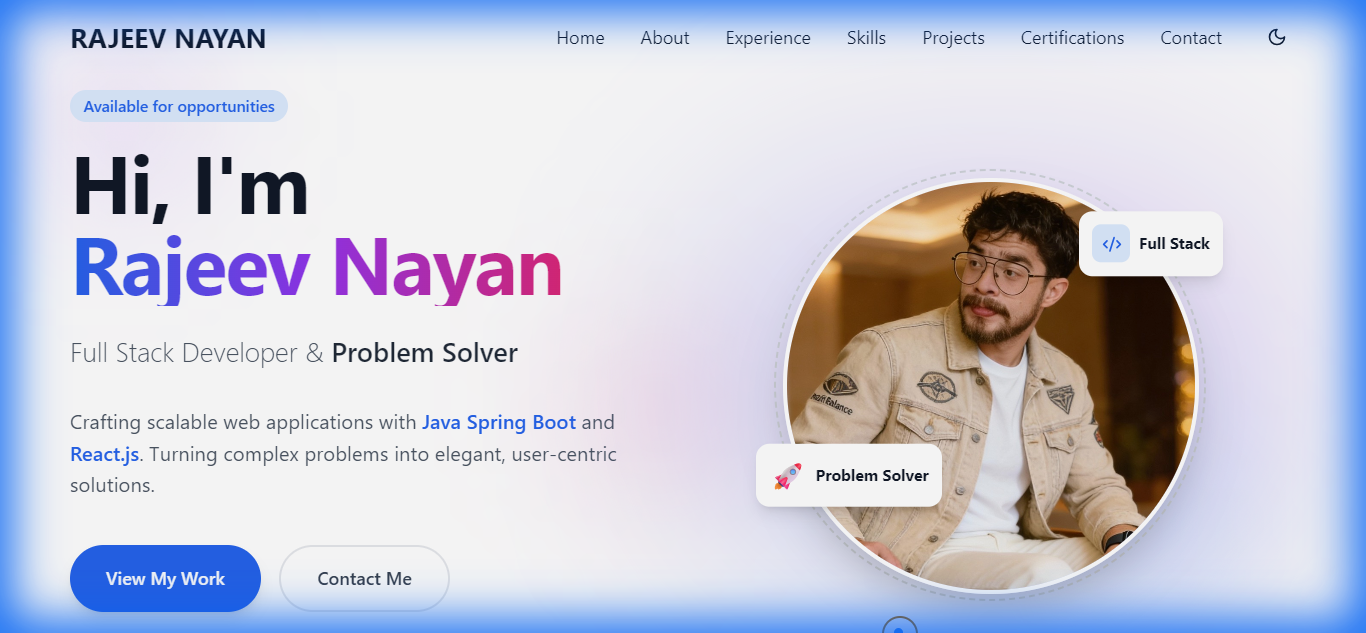
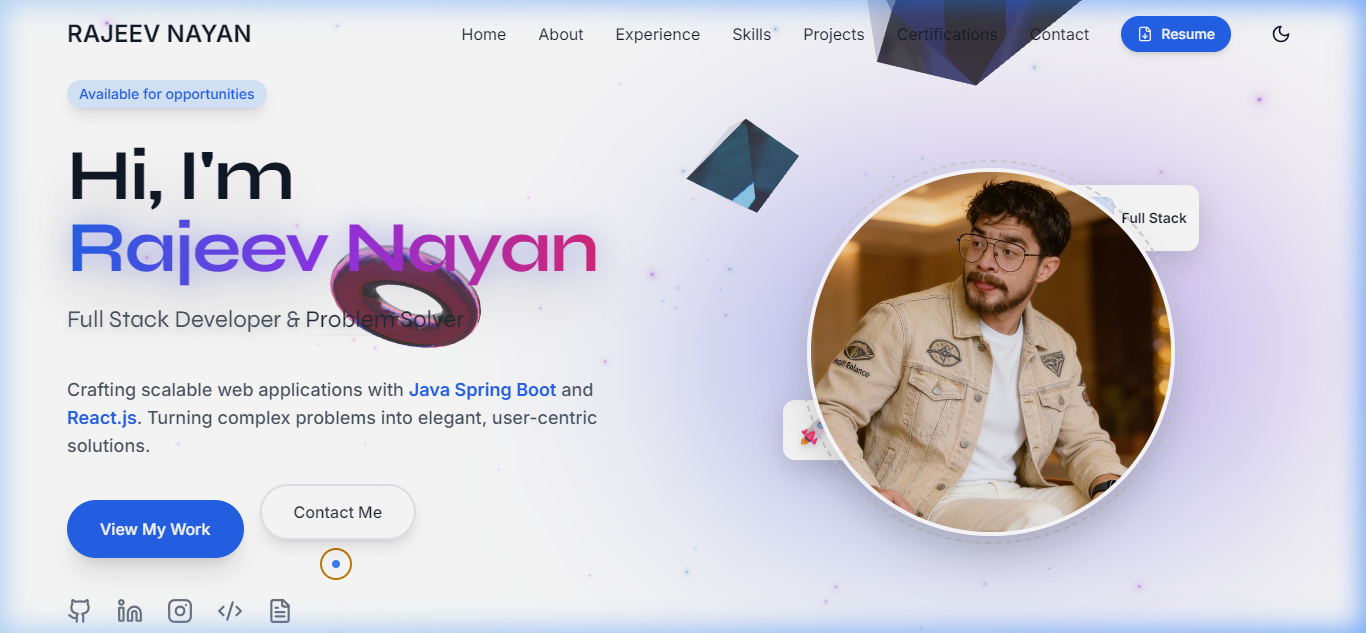
docs: significantly update README with 3D architecture details and new Hero screenshot preview

diff --git a/README.md b/README.md
@@ -28,9 +28,12 @@
 
 ## 🚀 Overview
 
-Welcome to my personal portfolio repository! This project is a representation of my skills, experience, and projects as a **Full Stack Developer**. It is built with a focus on **performance**, **responsiveness**, and **modern design principles**.
+Welcome to my personal portfolio repository! This project is a state-of-the-art representation of my skills, experience, and projects as a **Full Stack Developer**. It is built with an extreme focus on **performance**, **responsiveness**, and delivering a **jaw-dropping 3D user experience**.
 
-The portfolio features a clean UI, dark mode support, smooth animations, and a modular architecture that makes it easy to maintain and scale.
+### 🌟 Recent Architecture Upgrades (3D Experiences)
+- **High Performance 3D rendering:** Implemented via *React Three Fiber (WebGL)* and hardware-accelerated CSS 3D transforms with *Framer Motion*.
+- **Zero Render Blocking:** Heavy 3D mesh instances are aggressively **Lazy-Loaded** (`<Suspense>`) ensuring the website paints text and critical HTML instantly on mobile or low-end devices.
+- **Accessible & Subtle Elements:** The 3D viewports are assigned `z-index` background positioning and configured as `pointer-events-none` so visitors can effortlessly interact with the textual content, copy elements, and use screen readers.
 
 ## ✨ Key Features
 
